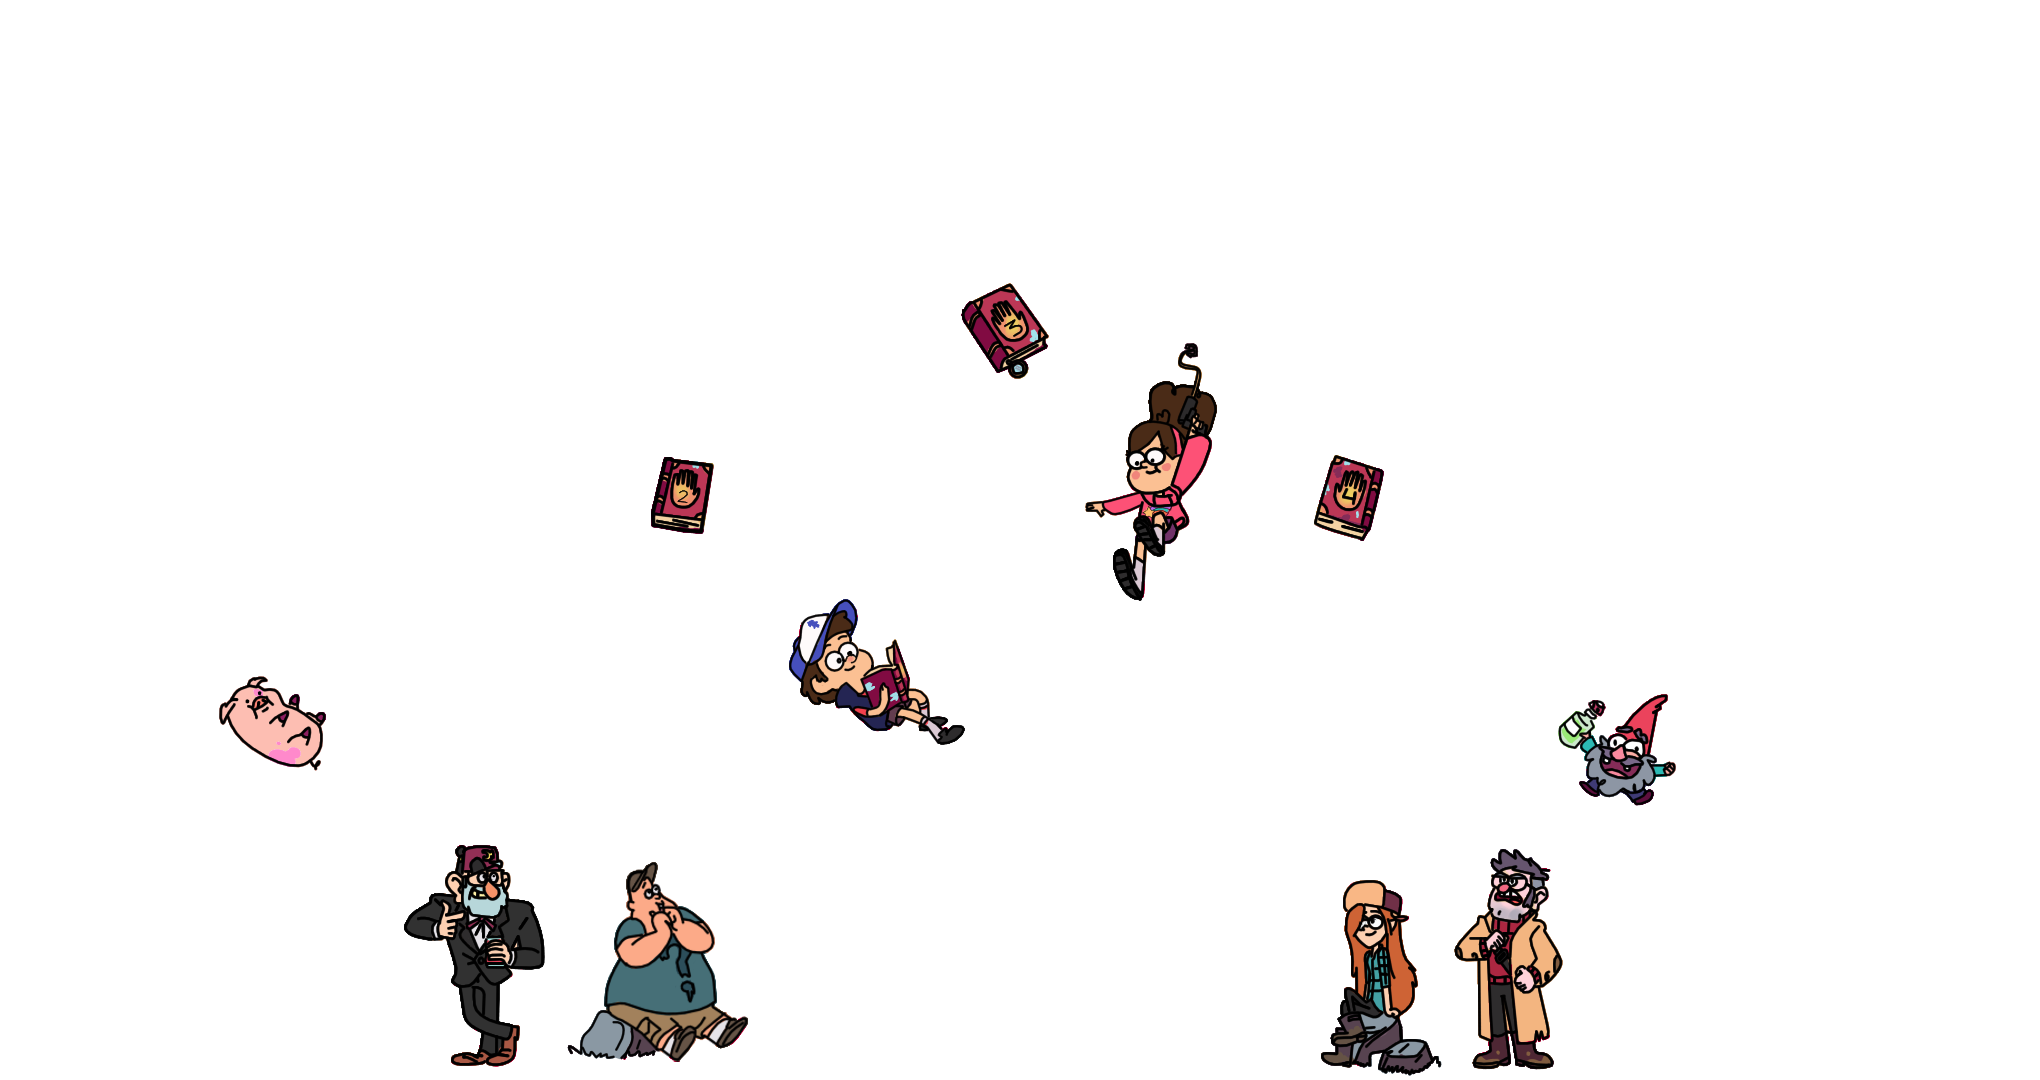
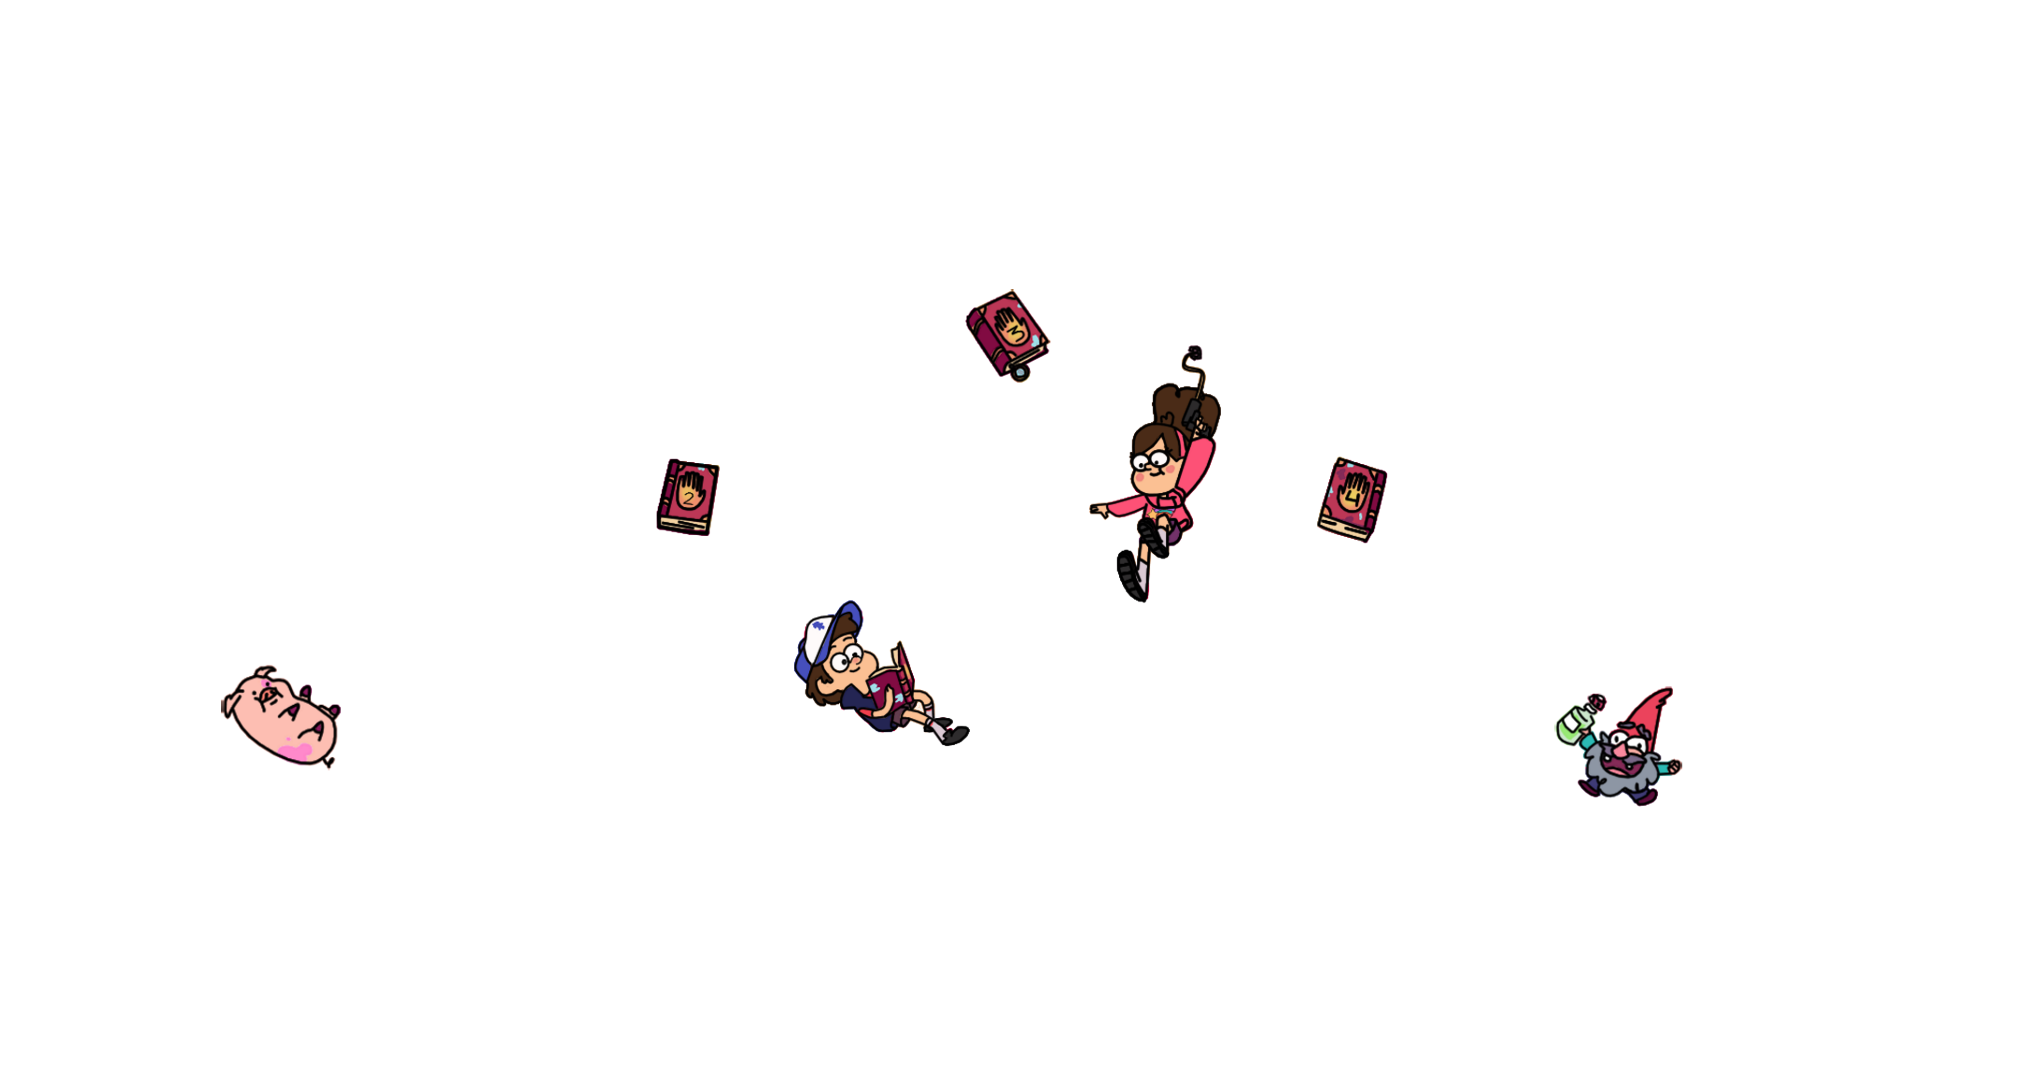
homepage parallax works

diff --git a/src/components/DesignHomePage.js b/src/components/DesignHomePage.js
@@ -1,10 +1,57 @@
-import React from 'react';
+import React, { useRef, useEffect } from 'react';
+import Parallax from 'parallax-js';
+import tower from '../images/design-home-images/2-tower.png';
+import trees from '../images/design-home-images/3-midground.png';
+import shack from '../images/design-home-images/4-shack.png';
+import floatCharacters from '../images/design-home-images/5-character.png';
+import groundCharacters from '../images/design-home-images/5-characters.png';
+import minigameIcon from '../images/design-home-images/6-minigame-icon.png';
+import fgTrees from '../images/design-home-images/7-foreground.png'
+
+
 
 const DesignHomePage = () => {
 
+    const sceneRef = useRef();
+
+    useEffect(() => {
+        const parallaxScene = new Parallax(sceneRef.current, {
+            relativeInput: true,
+            hoverOnly: true,
+            limitY: 1,
+        })
+
+        parallaxScene.enable();
+
+        return () => parallaxScene.disable();
+
+    }, [])
+
     return (
-        <div className='design-home'>
-            designer
+        <div className='container' onClick={() => { console.log('opening minigame') }}>
+            <ul ref={sceneRef} id='scene'>
+                <li className='layer tower' data-depth='0.2'>
+                    <img src={tower} alt='background tower' />
+                </li>
+                <li className='layer trees' data-depth='0.3'>
+                    <img src={trees} alt='background trees' />
+                </li>
+                <li className='layer shack' data-depth='0.4'>
+                    <img src={shack} alt='mystery shack' />
+                </li>
+                <li className='layer' data-depth='0.4'>
+                    <img className='minigame-icon' src={minigameIcon} alt='bill cipher minigame icon' />
+                </li>
+                <li className='layer characters1' data-depth='1'>
+                    <img src={floatCharacters} alt='gravity falls floating characters' />
+                </li>
+                <li className='layer characters2' data-depth='0.5'>
+                    <img src={groundCharacters} alt='gravity falls ground characters' />
+                </li>
+                <li className='layer fg-trees' data-depth='0'>
+                    <img src={fgTrees} alt='foreground trees' />
+                </li>
+            </ul>
         </div>
     );
 }

diff --git a/src/App.css b/src/App.css
@@ -232,7 +232,7 @@ body.lightMode {
 .page {
     width: 100%;
     /* height: max-content; */
-    min-height: 100vh;
+    /* min-height: 100vh; */
     /* display: flex;
     justify-content: center;
     align-items: center; */
@@ -304,6 +304,32 @@ img.bone-bg {
     position: absolute;
     top: 0;
 } */
+
+/* designer home page */
+.container {
+    width: 100%;
+    height: 100vh;
+    overflow: hidden;
+    background: url(./images/design-home-images/1-background.png);
+    background-attachment: fixed;
+    background-size: cover;
+}
+
+#scene,
+.layer {
+    width: 100%;
+    height: 100%;
+}
+
+.container #scene .layer img {
+    /* width: 100%; */
+    height: 100%;
+    object-fit: cover;
+}
+
+.minigame-icon {
+    cursor: pointer;
+}
 
 .about {
     background-color: chartreuse;

diff --git a/src/components/DevHomePage.js b/src/components/DevHomePage.js
@@ -55,7 +55,6 @@ const DevHomePage = () => {
                 eyeRef2.current.style.top = (eyesPos.y / 2) + '%';
                 eyeRef2.current.style.transform = `translateY(${eyesPos.y}%) translateX(${eyesPos.x}%)`;
             }}>
-            <img ref={imageRef} src={bone} alt='background x-ray vision' className='bone-bg' />
             <div className='eyes'>
                 <div className='eye'>
                     <div ref={eyeRef1} className='pupil'></div>
@@ -64,6 +63,7 @@ const DevHomePage = () => {
                     <div ref={eyeRef2} className='pupil'></div>
                 </div>
             </div>
+            <img ref={imageRef} src={bone} alt='background x-ray vision' className='bone-bg' />
         </div>
     );
 }

diff --git a/src/components/Nav.js b/src/components/Nav.js
@@ -2,6 +2,7 @@ import React from 'react';
 
 const Nav = () => {
 
+    // use state to find out mode. style menu hover colors or add classlist
     return (
         <div className='menu'>
             <input type='checkbox' id='menu-checkbox' />
